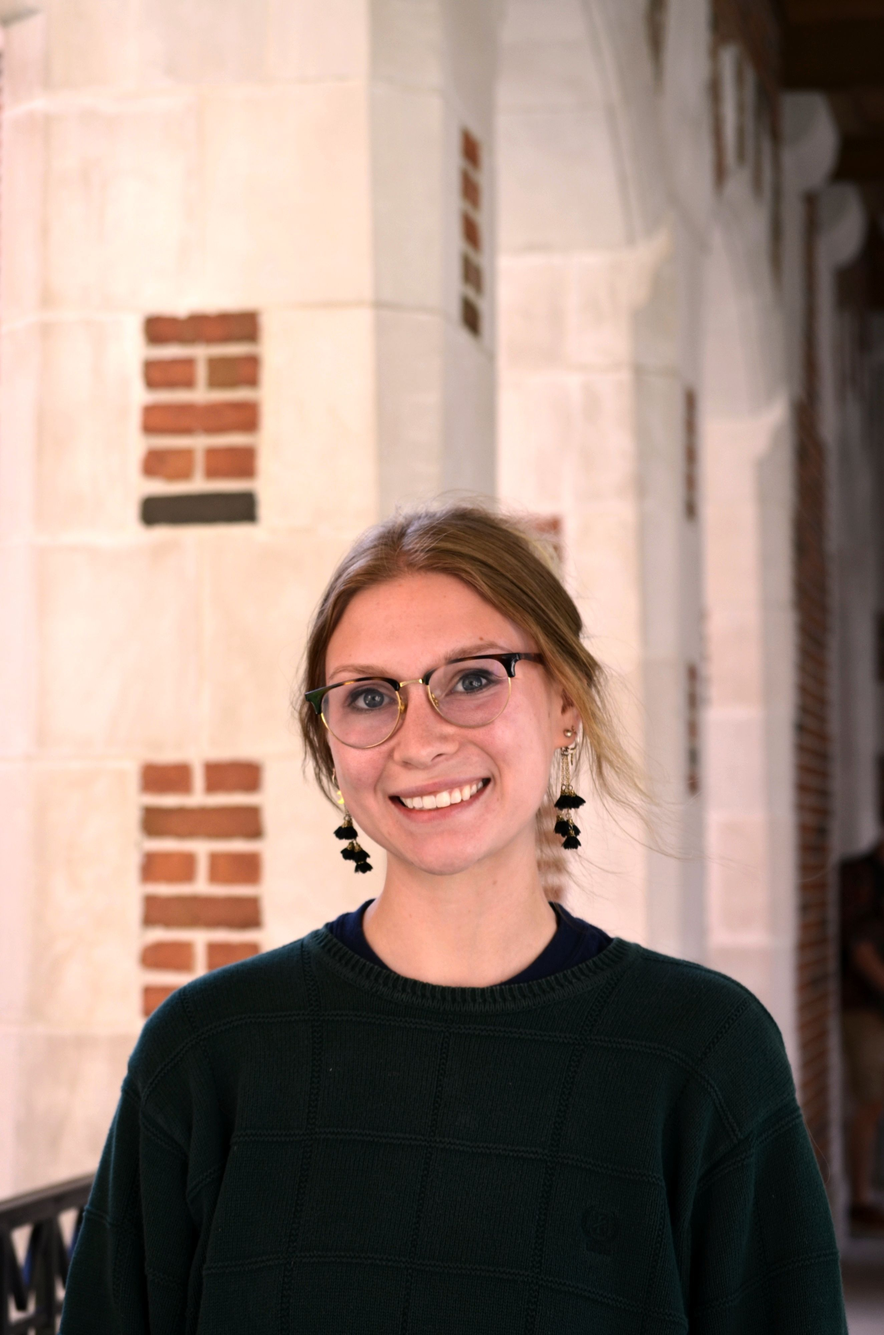
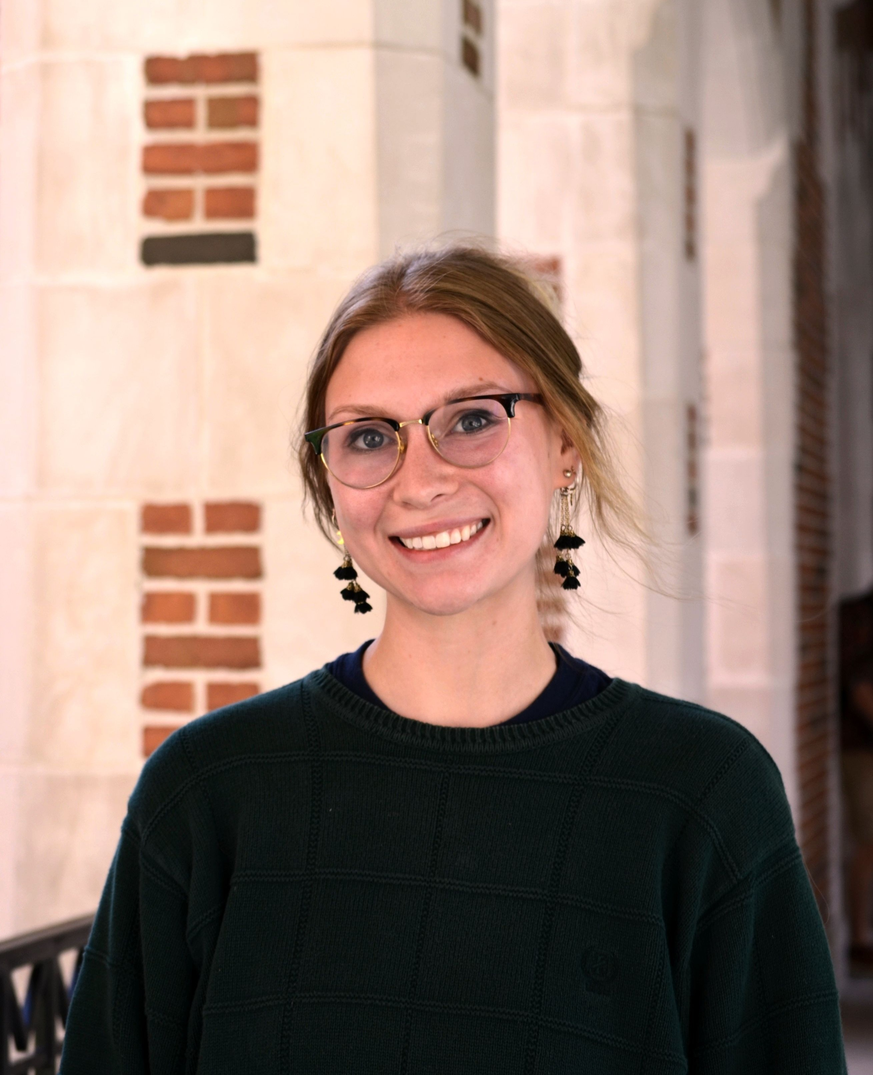
update before ec submission

diff --git a/css/style.css b/css/style.css
@@ -20,9 +20,9 @@
   
   }
 
-  nav{
+  /* nav{
     text-align: center;
-  }
+  } */
 
   header{
     grid-column: 1/span 1;
@@ -35,15 +35,15 @@
   #headshot{
     grid-column: 1/span 1;
     grid-row: 1/span 1;
-    max-width: 500px;
-    max-height: 600px;
+
   }
 
   #headshot img{
     object-fit: cover;
-    width: 100%;
-    max-height: 100%;
+    max-width: 100%;
+    height: auto;
     filter: grayscale(100%);
+    margin: 0px;
   }
 
 
@@ -68,7 +68,7 @@
 
   footer p{
     text-align: left;
-    margin: 25px;
+    margin: auto
   }
 
   /* Style the navigation menu */
@@ -117,17 +117,37 @@
 /* Show the dropdown menu (use JS to add this class to the .dropdown-content container when the user clicks on the dropdown button) */
 .show {display:block;}
 
-  @media all and (min-width: 800px){
+  @media all and (min-width: 700px){
     .container{
-        display: grid;
         grid-template-columns: 1fr 1fr;
-        grid-template-rows: 1fr 3fr 1fr;
+        grid-template-rows: 5fr 1fr;
         overflow: hidden;
+        align-items: center;
+      
+    }
+    #headshot{
+        grid-column: 1/span 1;
+        grid-row: 1/span 1;
+        
+    }
+    p {
+      margin: auto
+    }
+    footer{
+      grid-column: 1/span 2;
+      grid-row: 2/span 1;
+      background-size: 100% 100%;
+    }
+
+
+  }
+
+  @media all and (min-width: 1200px){
+    .container{
       
       }
-      #headshot{
-        grid-column: 1/span 1;
-        grid-template-rows: 2/span 1;
+    #headshot{
+
       }
 
 
